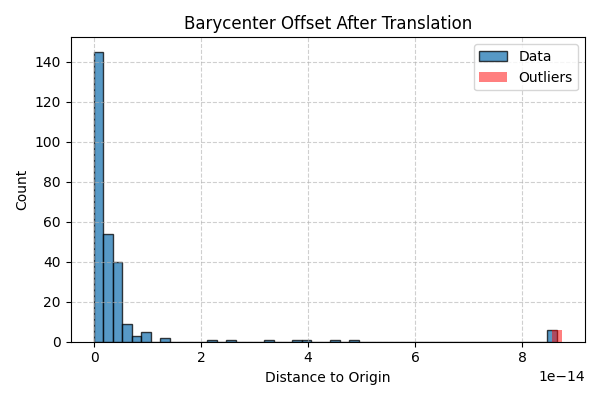
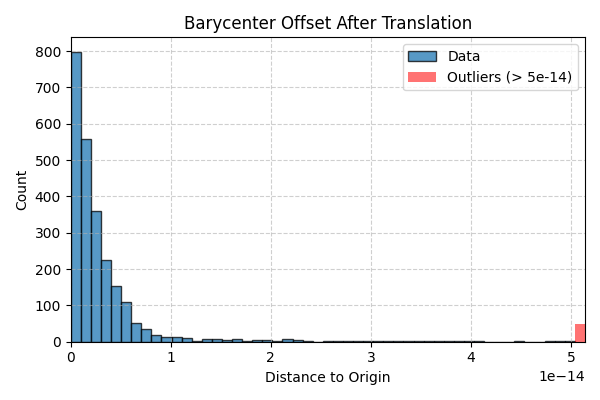
Improved normalization, added figures

diff --git a/Preprocessing/normalization.py b/Preprocessing/normalization.py
@@ -2,10 +2,17 @@
 """
 Mesh Normalization Tool with Automatic Outlier Handling
 
-This version:
-1. Separates translation and scaling steps for before/after stats.
-2. Automatically determines histogram outliers using mean + 3*std.
-3. Toggle to only calculate 'before' stats without normalization.
+Enhancements in this revision:
+1. Two‑pass recentring: after initial area‑weighted barycenter translation a residual
+    barycenter is recomputed and, if above a small epsilon, removed again.
+2. Area robustness: if the total surface area is extremely small (degenerate / thin
+    meshes) we fall back to a simple vertex mean to avoid amplifying numerical noise.
+3. Post‑scaling recenter: scaling should not move the barycenter, but a final safety
+    pass guarantees the saved mesh has a barycenter at ~0 (within RECENTER_EPS).
+4. Clear epsilon constants to make numerical tolerances explicit.
+
+Result: After translation almost all meshes should report a barycenter distance that
+falls into a single ~0 bin (floating point jitter only).
 """
 
 import open3d as o3d
@@ -14,29 +21,43 @@ from pathlib import Path
 import matplotlib.pyplot as plt
 
 # --- Configuration ---
-USE_SAMPLED_DATASET = True
+USE_SAMPLED_DATASET = False
 CREATE_ONLY_BEFORE_PLOTS = False  # True → only before stats
 BASE = Path(__file__).parent.parent.resolve()
 SOURCE_ROOT = BASE / ('Datasets/Data_sampled_resampled_simple' if USE_SAMPLED_DATASET else 'Datasets/Data_resampled')
-TARGET_ROOT = BASE / ('Datasets/Data_sampled_resampled_normalized' if USE_SAMPLED_DATASET else 'Datasets/Data_normalized')
+TARGET_ROOT = BASE / ('Datasets/Data_sampled_resampled_normalized' if USE_SAMPLED_DATASET else 'Datasets/Data_resampled_normalized')
 
 NUM_BINS = 50
+
+# Numerical tolerances
+AREA_EPS = 1e-12          # Minimum total surface area before falling back to mean
+RECENTER_EPS = 1e-9       # Threshold to apply second recentering pass (pre-scaling)
 
 # --- Functions ---
 
 def calculate_mass_barycenter(vertices, triangles):
+    """Area‑weighted (mass) barycenter with degeneracy fallback.
+
+    Falls back to simple vertex mean if:
+      * Mesh has no triangles, or
+      * Total accumulated triangle area < AREA_EPS
+    """
     if len(triangles) == 0:
         return np.mean(vertices, axis=0)
-    total_weighted_centroid = np.zeros(3)
+    total_weighted_centroid = np.zeros(3, dtype=np.float64)
     total_area = 0.0
-    for triangle in triangles:
-        v0, v1, v2 = vertices[triangle]
+    for tri in triangles:
+        v0, v1, v2 = vertices[tri]
         face_centroid = (v0 + v1 + v2) / 3.0
         edge1, edge2 = v1 - v0, v2 - v0
         face_area = 0.5 * np.linalg.norm(np.cross(edge1, edge2))
+        if face_area <= 0.0:
+            continue  # Skip degenerate faces
         total_weighted_centroid += face_centroid * face_area
         total_area += face_area
-    return total_weighted_centroid / total_area if total_area > 0 else np.mean(vertices, axis=0)
+    if total_area < AREA_EPS:
+        return np.mean(vertices, axis=0)
+    return total_weighted_centroid / total_area
 
 def normalize_mesh(input_path, output_path, only_before=False):
     try:
@@ -48,10 +69,25 @@ def normalize_mesh(input_path, output_path, only_before=False):
         triangles = np.asarray(mesh.triangles)
 
         # --- Translation stats ---
+        # Initial area‑weighted barycenter
         bary_before = calculate_mass_barycenter(vertices, triangles)
-        bary_offset_before = np.linalg.norm(bary_before)
+        bary_offset_before = float(np.linalg.norm(bary_before))
+
+        # First translation pass
         vertices_translated = vertices - bary_before
-        bary_offset_after_translation = np.linalg.norm(calculate_mass_barycenter(vertices_translated, triangles))
+
+        # Recompute barycenter after translation (should be near zero)
+        residual_bary = calculate_mass_barycenter(vertices_translated, triangles)
+        residual_norm = float(np.linalg.norm(residual_bary))
+
+        # Optional second pass for numerical drift or degeneracy effects
+        if residual_norm > RECENTER_EPS:
+            print(f"    [!] Applying second recentering pass (residual {residual_norm:.2e})")
+            vertices_translated -= residual_bary
+            residual_bary = calculate_mass_barycenter(vertices_translated, triangles)
+            residual_norm = float(np.linalg.norm(residual_bary))
+
+        bary_offset_after_translation = residual_norm
         bbox_before_scaling = np.max(np.max(vertices_translated, axis=0) - np.min(vertices_translated, axis=0))
 
         if only_before:
@@ -85,24 +121,77 @@ def normalize_mesh(input_path, output_path, only_before=False):
         print(f"[X] Error {input_path}: {e}")
         return False, None
 
-def plot_histogram_auto_outliers(data, title, xlabel, ylabel, out_path, num_bins=NUM_BINS):
+def plot_histogram_auto_outliers(
+    data,
+    title,
+    xlabel,
+    ylabel,
+    out_path,
+    num_bins=NUM_BINS,
+    show_outlier_bar=True,
+    std_factor=0.5,
+    quantile_q=0.98,
+    use_quantile=True,
+):
+    """Plot histogram with optional aggregated outlier bar.
+
+    Parameters
+    ----------
+    data : sequence of float
+    show_outlier_bar : bool, default True
+        When False, outliers are silently clipped but not rendered as a separate bar.
+    std_factor : float, default 0.5
+        Multiplier for standard deviation added to mean to define clipping threshold.
+    """
     if len(data) == 0:
         return
     mean_val = np.mean(data)
     std_val = np.std(data)
-    threshold = mean_val + 1 * std_val
-    data_clipped = np.clip(data, None, threshold)
-    bins = np.linspace(0, threshold, num_bins)
-    outliers = np.sum(np.array(data) > threshold)
+    threshold_std = mean_val + std_factor * std_val
+    # Guard against zero std so threshold > 0 when data not all zero
+    if threshold_std <= 0:
+        threshold_std = max(1e-12, float(np.max(data)))
+    # Quantile-based cap to avoid huge empty spans caused by extreme outliers
+    if use_quantile:
+        try:
+            quantile_thr = float(np.quantile(data, quantile_q))
+        except Exception:
+            quantile_thr = threshold_std
+        # Use the smaller threshold to focus on dense region
+        threshold = min(threshold_std, quantile_thr)
+        # Ensure threshold not absurdly tiny (at least median)
+        median_val = np.median(data)
+        if threshold < median_val:
+            threshold = median_val
+    else:
+        threshold = threshold_std
+    data = np.asarray(data, dtype=float)
+
+    # Split into in-range and outliers (strict > threshold) without clipping so histogram isn't inflated
+    in_range_mask = data <= threshold
+    in_data = data[in_range_mask]
+    outliers = np.count_nonzero(~in_range_mask)
+
+    # Build bin edges up to threshold (inclusive at right edge)
+    bins = np.linspace(0.0, threshold, num_bins + 1)
+    bin_width = bins[1] - bins[0]
 
     plt.figure(figsize=(6,4))
-    plt.hist(data_clipped, bins=bins, alpha=0.75, edgecolor='black', label='Data')
-    if outliers > 0:
-        plt.bar(threshold, outliers, width=(bins[1]-bins[0]), color='red', alpha=0.5, label='Outliers')
+    plt.hist(in_data, bins=bins, alpha=0.75, edgecolor='black', label='Data')
+
+    if show_outlier_bar and outliers > 0:
+        # Place outlier bar just beyond the last bin to avoid overlapping / double counting
+        outlier_bar_x = threshold  # start at threshold
+        plt.bar(outlier_bar_x, outliers, width=bin_width, align='edge', color='red', alpha=0.55, label=f'Outliers (> {threshold:.2g})')
+        # Extend x-limits to show the extra bar fully
+        plt.xlim(0, threshold + bin_width)
+    # Compute simple occupancy metric for debug (optional future tuning)
+    # non_empty_bins = np.count_nonzero(np.histogram(in_data, bins=bins)[0])
     plt.title(title)
     plt.xlabel(xlabel)
     plt.ylabel(ylabel)
-    plt.legend()
+    if show_outlier_bar and outliers > 0:
+        plt.legend()
     plt.grid(True, linestyle='--', alpha=0.6)
     plt.tight_layout()
     plt.savefig(out_path)
@@ -162,7 +251,15 @@ def main():
     plot_histogram_auto_outliers(stats["bary_after_translation"], "Barycenter Offset After Translation", "Distance to Origin", "Count", fig_dir / "barycenter-histogram-after-translation.png")
     plot_histogram_auto_outliers(stats["bbox_before_scaling"], "Bounding Box Longest Side Before Scaling", "Length", "Count", fig_dir / "bbox-histogram-before-scaling.png")
     if len(stats["bbox_after_scaling"]) > 0:
-        plot_histogram_auto_outliers(stats["bbox_after_scaling"], "Bounding Box Longest Side After Scaling", "Length", "Count", fig_dir / "bbox-histogram-after-scaling.png")
+        # Disable separate outlier bar for 'after' plot
+        plot_histogram_auto_outliers(
+            stats["bbox_after_scaling"],
+            "Bounding Box Longest Side After Scaling",
+            "Length",
+            "Count",
+            fig_dir / "bbox-histogram-after-scaling.png",
+            show_outlier_bar=False,
+        )
 
     print(f"\nHistograms saved to {fig_dir}")
 
